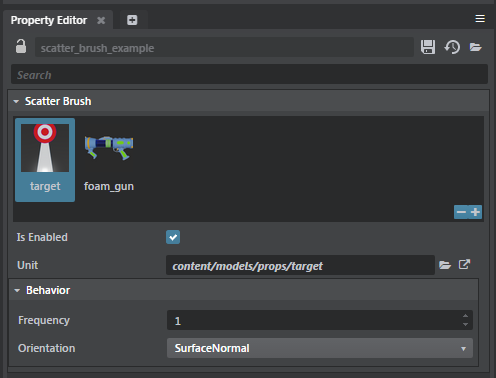
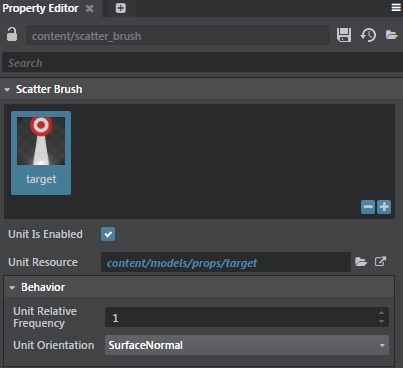
Update Scatter property labels and add other minor updates

Changed region(s): [[0.0, 0.0, 1.0, 0.7473], [0.0, 0.6875, 0.9826, 0.9864], [0.9529, 0.7473, 0.9826, 0.8071]]

diff --git a/source/stingray_help/getting_started/common_windows/asset_browser.md b/source/stingray_help/getting_started/common_windows/asset_browser.md
@@ -19,7 +19,7 @@ The **Asset Browser** is the main way to browse and import assets in your game p
 | Return to the last opened folder  | Backspace  |
 | View history of assets navigated to | Alt + left arrow or right arrow to navigate back and forth. |
 | Open selected asset in Windows Explorer  | Right-click the asset and select **Show in Explorer**.  |
-| Open a directory location in Windows Explorer  | Right-click anywhere in the **File View** and select **Show in Explorer**.  |
+| Open a folder location in Windows Explorer  | Right-click anywhere in the **File View** and select **Show in Explorer**.  |
 | Update assets in a scene  | Right-click the assets and select **Re-import** option to import them again using the **Import FBX** options window. Note that the Re-import option displays only for units, animation clips and skeletons.|
 | Duplicate assets and folders | Right-click assets and select **Duplicate**. For folders in the Asset Browser, right-click and select **Duplicate Folder**. |
 
@@ -48,7 +48,7 @@ The file view indicates read-only folders and resources using a lock icon: ![Loc
 
 [![NEW](../../images/new.png "What else is new in v1.9?")](../../release_notes/readme_1.9.html)
 
-The **Favorites** directory lists the assets and folders you bookmark as a favorite ![](../../images/icon_asset_favorites.png). To add a frequently used asset or folder as a favorite, check the favorite icon ![](../../images/icon_asset_set_favorite.png) beside the asset/folder or right-click and select **Add to Favorites**. You can also drag and drop assets and folders to the **Favorites** directory.  
+The **Favorites** lists the assets and folders you bookmark as a favorite ![](../../images/icon_asset_favorites.png). To add a frequently used asset or folder as a favorite, check the favorite icon ![](../../images/icon_asset_set_favorite.png) beside the asset/folder or right-click and select **Add to Favorites**. You can also drag and drop assets and folders to the **Favorites**.  
 
 To remove the favorite bookmark, select the asset or folder, and uncheck the Favorites icon or right-click and select **Remove from Favorites**. You can also hide the **Favorites** from the Asset view by unchecking *Favorites* in the configuration option ![ ](../../images/icon_config.png).
 

diff --git a/source/stingray_help/creating_gameplay/physics/install_physx.md b/source/stingray_help/creating_gameplay/physics/install_physx.md
@@ -18,9 +18,9 @@ To install the PhysX plug-in for your DCC tool:
 
 When exporting PhysX data from Maya or Maya LT to Stingray, ensure you specify the correct unit scaling for export. Stingray requires the data in meters.
 
-In the PhysX plug-in, set the value of **PhysX > nxRigidSolver1 > Scene Attributes > Scale Manual** to convert from the unit used in Maya to meters.
+You’ll find that the scaling for exported PhysX data is handled in **File > Export All (or Export Selected) > Output Scaling Factor**. Depending on the conversion units selected in the **Output Unit**, the **Scaling Factor** displays the scale factor for the exported units. To manually add the scale factor, enable the **Custom Scaling**. The **Output Unit** is set to meter by default.
 
-For example, if your scene is using cm, set the **Scale Manual** value to 0.01. When working in inches, set the value to 0.0252.
+![](../../images/physx_export_scalefactor.png)
 
 This ensures the correct correlation between meshes, PhysX actors, and global-anchored joints in Stingray with the unit or coordinate system you use in Maya, and the unit you set for your FBX scene export.
 

diff --git a/source/stingray_help/building_levels/paint_scatter/scatter_tool_properties.md b/source/stingray_help/building_levels/paint_scatter/scatter_tool_properties.md
@@ -2,26 +2,26 @@
 
 When you create a new Scatter Brush, the following properties appear in the Property Editor. See ~{ Paint with the Scatter Tool }~ for more information.
 
-![](../../images/scatter_brush_property_ed.png) </dd>
-
+![](../../images/scatter_brush_property_ed.png)
 
 <dl>
 
-<dt>Is Enabled</dt>
+<dt>Unit Is Enabled</dt>
 
 <dd>When on (default), enables the scatter tool in your project. </dd>
 
-<dt>Unit</dt>
+<dt>Unit Resource</dt>
 
 <dd>Displays the path of the unit you've selected to scatter.</dd>
 
-<dt>Frequency</dt>
+<dt>Unit Relative Frequency</dt>
 
 <dd>Sets the weight of the currently selected unit in relation to the other units associated with your scatter brush.</dd>
 
-
-<dt>Orientation</dt>
+<dt> Unit Orientation</dt>
 
 <dd>Lets you control how scatter is painted on objects. The image below shows the two types of orientation. When **SurfaceNormal** (right image) is selected, the scatter follows the normals of the object. When **WorldUp** is selected (left image), the scatter follows the world's normals.
 <br>
 ![](../../images/scatter_tool_orientation.png) </dd>
+
+</dl>

diff --git a/source/stingray_help/importing_assets/import_anim_clips.md b/source/stingray_help/importing_assets/import_anim_clips.md
@@ -1,12 +1,12 @@
 # Import animation clips
 
-1. In the **Asset Browser**, navigate to the directory where you want to import animation clips.
+1. In the **Asset Browser**, navigate to the folder where you want to import animation clips.
 
 	In general, it's a good idea to keep animation clips in a separate folder alongside the units they will animate. <br>For example, `content/models/my_Character/animations`
 
 	This helps you keep track of which animations belong to which character. Prefixing your animation clips with  the character name is also a good habit. For example, an idle animation for a predator character would be chr_predator_idle.fbx.
 
-1. Right-click in your animation directory and select **Import Asset**.
+1. Right-click in your animation folder and select **Import Asset**.
 
 1. Browse to select an FBX animation clip and click **Open**.
 

diff --git a/source/stingray_help/creating_gameplay/visual-prog_with_flow.md b/source/stingray_help/creating_gameplay/visual-prog_with_flow.md
@@ -18,7 +18,7 @@ The ~{ Level Flow Editor }~ (**Window > Level Flow Editor**) handles all of the 
 
 To create logic specific to a given unit such a character, prop, or other object, you'll use the **Unit Flow** tab in the ~{ Unit Editor }~. This is useful for doing things like character controls, effects on props, and so on.
 
-Level flow graphs are saved alongside your level files (in the same directory in the **Asset Browser**), and unit flow graphs are saved alongside unit files.
+Level flow graphs are saved alongside your level files (in the same folder in the **Asset Browser**), and unit flow graphs are saved alongside unit files.
 
 ---
 Related topics:

diff --git a/source/stingray_help/animation/set_up_character.md b/source/stingray_help/animation/set_up_character.md
@@ -28,11 +28,11 @@
 
 (See ~{ Import animation clips }~.)
 
-1. In the **Asset Browser**, browse to the directory you created for your character mesh.
+1. In the **Asset Browser**, browse to the folder you created for your character mesh.
 
 	Example: `content/models/new_character/animations`.
 
-1. Right-click in this directory and select **Import Asset**, then browse to select an animation clip and click **Open**.
+1. Right-click in this folder and select **Import Asset**, then browse to select an animation clip and click **Open**.
 
 1. In the **Import FBX** options, turn off **Unit Mesh**, then set the following:
 

diff --git a/source/stingray_help/animation/set_up_anim_controller.md b/source/stingray_help/animation/set_up_anim_controller.md
@@ -103,4 +103,4 @@ You'll add an event for each of the animation clips you want the controller to i
 
 1.  Click the Save icon ![](../images/animCtrl_saveIcon.png).
 
-	Always save the animation controller in the same directory as your character: for example, `content/models/*characterName*/`.
+	Always save the animation controller in the same folder as your character: for example, `content/models/*characterName*/`.
